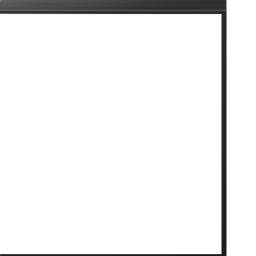
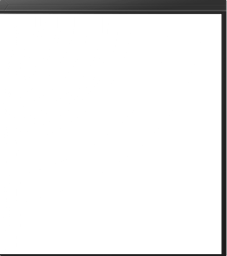
去掉CF主题封面外框多余的透明区域，优化逻辑，修复抖动问题

Changed region(s): [[0.8634, 0.0, 1.0, 1.0]]

diff --git a/src/textures.c b/src/textures.c
@@ -109,7 +109,6 @@ extern void *apps_case_png;
 // Coverflow(内置主题)专用内置贴图, 对齐 wOPL 的 CF 主题资源
 extern void *plank_png;
 extern void *cf_case_png;
-extern void *cf_apps_case_png;
 // wOPL 风格设备图标(仅 Coverflow 内置主题使用)
 extern void *cf_usb_png;
 extern void *cf_usb_bd_png;
@@ -272,7 +271,6 @@ static texture_t internalDefault[TEXTURES_COUNT] = {
     // Coverflow(内置主题)专用资源, 对齐 wOPL 的 CF 主题
     {PLANK_PICTURE, "plank", &plank_png},
     {CF_CASE_OVERLAY, "cf_case", &cf_case_png},
-    {CF_APPS_CASE_OVERLAY, "cf_apps_case", &cf_apps_case_png},
     // wOPL 风格设备图标(384x256, 带 BDM/SMB/APA/APPS 标签), 仅 Coverflow 主题
     {CF_DEV_BDM, "cf_usb", &cf_usb_png},
     {CF_DEV_USB, "cf_usb_bd", &cf_usb_bd_png},

diff --git a/include/textures.h b/include/textures.h
@@ -104,7 +104,6 @@ enum INTERNAL_TEXTURE {
     //  封面占位图沿用默认主题的 cover, 兜底背景复用默认的 background, 不再单独引入)
     PLANK_PICTURE,
     CF_CASE_OVERLAY,
-    CF_APPS_CASE_OVERLAY,
     // wOPL 风格的单设备图标(带 BDM/SMB/APA/APPS 标签), 仅 Coverflow 内置主题使用,
     // 在 thmLoad 里覆盖到对应的设备图标槽(BDM_ICON..APP_ICON), 默认列表主题不受影响。
     CF_DEV_BDM,
